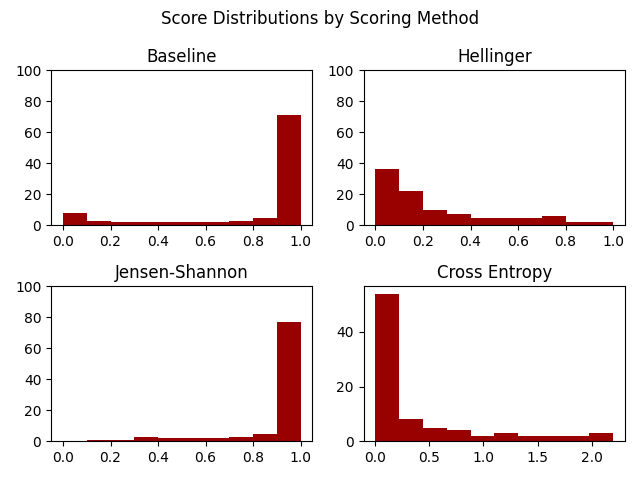
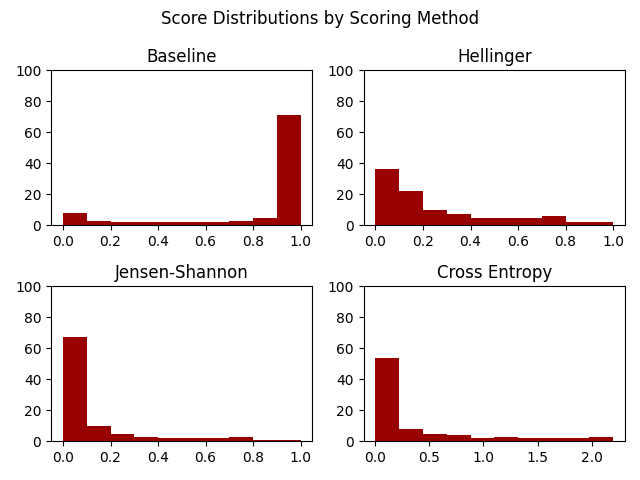
fixed graphs

diff --git a/error_analysis_hellinger.py b/error_analysis_hellinger.py
@@ -4,13 +4,13 @@ import matplotlib.pyplot as plt
 
 sensitivity = 0.05
 
+with open('sk_hell_predictions.binary', 'rb') as in_file:
+    predictions = pickle.load(in_file)[18]
+
 with open('sk_predictions.binary', 'rb') as in_file:
-    predictions = pickle.load(in_file)
+    base_predictions = pickle.load(in_file)[0]
 
-# Sanity check that the predictions are all the same order
-assert predictions[0][2] == predictions[1][2] == predictions[2][2] == predictions[3][2]
-
-cos_all = []
+hel_all = []
 jsd_all = []
 xen_all = []
 cos_right_1 = []
@@ -23,183 +23,36 @@ cos_both_wrong_1 = []
 cos_both_wrong_0 = []
 for x in range(5000):
     # test and cos are different
-    if predictions[0][1][x] != predictions[1][1][x]:
-        if predictions[1][1][x] == predictions[1][2][x]: # cos got it right
-            if predictions[1][2][x] == 1: # correct answer is 1
-                cos_right_1.append(x)
-            else: # correct answer is 0
-                cos_right_0.append(x)
-        else: # cos got it wrong
-            if predictions[1][2][x] == 1: # correct answer is 1
-                cos_wrong_1.append(x)
-            else: # correct answer is 0
-                cos_wrong_0.append(x)
-    else: # test and cos are the same
-        if predictions[1][1][x] == predictions[1][2][x]: # both got it right
-            if predictions[1][2][x] == 1: # correct answer is 1
-                cos_both_right_1.append(x)
-            else: # correct answer is 0
-                cos_both_right_0.append(x)
-        else: # both got it wrong
-            if predictions[1][2][x] == 1:
-                cos_both_wrong_1.append(x)
-            else:
-                cos_both_wrong_0.append(x)
-    cos_all.extend([pair for pair in zip(predictions[0][0][x], predictions[1][0][x])])
+    # if predictions[0][1][x] != predictions[1][1][x]:
+    #     if predictions[1][1][x] == predictions[1][2][x]: # cos got it right
+    #         if predictions[1][2][x] == 1: # correct answer is 1
+    #             cos_right_1.append(x)
+    #         else: # correct answer is 0
+    #             cos_right_0.append(x)
+    #     else: # cos got it wrong
+    #         if predictions[1][2][x] == 1: # correct answer is 1
+    #             cos_wrong_1.append(x)
+    #         else: # correct answer is 0
+    #             cos_wrong_0.append(x)
+    # else: # test and cos are the same
+    #     if predictions[1][1][x] == predictions[1][2][x]: # both got it right
+    #         if predictions[1][2][x] == 1: # correct answer is 1
+    #             cos_both_right_1.append(x)
+    #         else: # correct answer is 0
+    #             cos_both_right_0.append(x)
+    #     else: # both got it wrong
+    #         if predictions[1][2][x] == 1:
+    #             cos_both_wrong_1.append(x)
+    #         else:
+    #             cos_both_wrong_0.append(x)
+    hel_all.extend([pair for pair in zip(base_predictions[0][x], predictions[0][x])])
 
-# with open('error_analysis.txt', 'w') as out_file:
-#     print('Cosine right, test wrong', file = out_file)
-#     for x in cos_right:
-#         t = '\t'.join([str(n).rjust(5) for n in predictions[1][0][x] if isinstance(n, float)])
-#         c = '\t'.join([str(n).rjust(5) for n in predictions[0][0][x] if isinstance(n, float)])
-#         print(f'Test:   {t}', file = out_file)
-#         print(f'Cosine: {c}', file = out_file)
-#     print('Cosine wrong, test right', file = out_file)
-#     for x in cos_wrong:
-#         t = '\t'.join([str(n).rjust(5) for n in predictions[0][0][x] if isinstance(n, float)])
-#         c = '\t'.join([str(n).rjust(5) for n in predictions[1][0][x] if isinstance(n, float)])
-#         print(f'Test:   {t}', file = out_file)
-#         print(f'Cosine: {c}', file = out_file)
-#     print('JSD right, test wrong', file = out_file)
-#     for x in jsd_right:
-#         t = '\t'.join([str(n).rjust(5) for n in predictions[0][0][x] if isinstance(n, float)])
-#         j = '\t'.join([str(n).rjust(5) for n in predictions[2][0][x] if isinstance(n, float)])
-#         print(f'Test: {t}', file = out_file)
-#         print(f'JSD:  {j}', file = out_file)
-#     print('JSD wrong, test right', file = out_file)
-#     for x in jsd_wrong:
-#         t = '\t'.join([str(n).rjust(5) for n in predictions[0][0][x] if isinstance(n, float)])
-#         j = '\t'.join([str(n).rjust(5) for n in predictions[2][0][x] if isinstance(n, float)])
-#         print(f'Test: {t}', file = out_file)
-#         print(f'JSD:  {j}', file = out_file)
-
-################################## COS ##################################
-deltas_cr = []
-deltas_cr_0 = []
-deltas_cr_1 = []
-deltas_cw = []
-deltas_cw_0 = []
-deltas_cw_1 = []
-deltas_cbr = []
-deltas_bw_0 = []
-deltas_bw_1 = []
-deltas_br_0 = []
-deltas_br_1 = []
-# for x in cos_right:
-#     # negative numbers, cos is higher score than baseline
-#     deltas_cr.extend([pair[0] - pair[1] for pair in zip(predictions[0][0][x], predictions[1][0][x]) if abs(pair[0] - pair[1]) > sensitivity])
-# for x in cos_wrong:
-#     # negative numbers, cos is higher score than baseline
-#     deltas_cw.extend([pair[0] - pair[1] for pair in zip(predictions[0][0][x], predictions[1][0][x]) if abs(pair[0] - pair[1]) > sensitivity])
-# for x in cos_both_right:
-#     # negative numbers, cos is higher score than baseline
-#     deltas_cbr.extend([pair[0] - pair[1] for pair in zip(predictions[0][0][x], predictions[1][0][x]) if abs(pair[0] - pair[1]) > sensitivity])
-for x in cos_wrong_0:
-    # negative numbers, cos is higher score than baseline
-    deltas_cw_0.extend([pair for pair in zip(predictions[0][0][x], predictions[1][0][x])])# if abs(pair[0] - pair[1]) > sensitivity])
-for x in cos_wrong_1:
-    # negative numbers, cos is higher score than baseline
-    deltas_cw_1.extend([pair for pair in zip(predictions[0][0][x], predictions[1][0][x])])# if abs(pair[0] - pair[1]) > sensitivity])
-for x in cos_right_0:
-    # negative numbers, cos is higher score than baseline
-    deltas_cr_0.extend([pair for pair in zip(predictions[0][0][x], predictions[1][0][x])])# if abs(pair[0] - pair[1]) > sensitivity])
-for x in cos_right_1:
-    # negative numbers, cos is higher score than baseline
-    deltas_cr_1.extend([pair for pair in zip(predictions[0][0][x], predictions[1][0][x])])# if abs(pair[0] - pair[1]) > sensitivity])
-
-for x in cos_both_wrong_0:
-    # negative numbers, cos is higher score than baseline
-    deltas_bw_0.extend([pair for pair in zip(predictions[0][0][x], predictions[1][0][x])])# if abs(pair[0] - pair[1]) > sensitivity])
-for x in cos_both_wrong_1:
-    # negative numbers, cos is higher score than baseline
-    deltas_bw_1.extend([pair for pair in zip(predictions[0][0][x], predictions[1][0][x])])# if abs(pair[0] - pair[1]) > sensitivity])
-for x in cos_both_right_0:
-    # negative numbers, cos is higher score than baseline
-    deltas_br_0.extend([pair for pair in zip(predictions[0][0][x], predictions[1][0][x])])# if abs(pair[0] - pair[1]) > sensitivity])
-for x in cos_both_right_1:
-    # negative numbers, cos is higher score than baseline
-    deltas_br_1.extend([pair for pair in zip(predictions[0][0][x], predictions[1][0][x])])# if abs(pair[0] - pair[1]) > sensitivity])
-
-# cr_counter = Counter(deltas_cr)
-# print(' '.join([f'{k}: {v}' for k, v in sorted(cr_counter.items())]))
-# cw_counter = Counter(deltas_cw)
-# print(' '.join([f'{k}: {v}' for k, v in sorted(cw_counter.items())]))
-# cbr_counter = Counter(deltas_cbr)
-# print(' '.join([f'{k}: {v}' for k, v in sorted(cw_counter.items())]))
-
-# make the graphs
-# fig, ax1 = plt.subplots()
-fig, ((ax1a, ax1b), (ax1c, ax1d)) = plt.subplots(nrows=2, ncols=2)
-# labels = ['Base Right\nAnswer 0', 'Base Right\nAnswer 1', 'Cos Right\nAnswer 0', 'Cos Right\nAnswer 1']
-# violin1 = ax1.violinplot([deltas_cw_0, deltas_cw_1, deltas_cr_0, deltas_cr_1], widths=0.9, showmeans=True, showextrema=False)
-# for b in violin1['bodies']:
-#     b.set_color('#990000')
-# violin1['cmeans'].set_color('#990000')
-# ax1.set_xticks(list(range(1, len(labels)+1)))
-# ax1.set_xticklabels(labels)
-# x is baseline y is cos
-fig.suptitle('Baseline vs Cosine with Different Answers')
-ax1a.scatter([x[0] for x in deltas_cw_0], [x[1] for x in deltas_cw_0], s = 1, c = '#990000')
-ax1a.axline((0, 0), slope = 1, c = 'black')
-ax1a.set_xlabel('Baseline Score')
-ax1a.set_ylabel('Cosine Score')
-ax1a.set_title('Cosine Wrong Answer 0')
-ax1b.scatter([x[0] for x in deltas_cw_1], [x[1] for x in deltas_cw_1], s = 1, c = '#990000')
-ax1b.axline((0, 0), slope = 1, c = 'black')
-ax1b.set_xlabel('Baseline Score')
-ax1b.set_ylabel('Cosine Score')
-ax1b.set_title('Cosine Wrong Answer 1')
-ax1c.scatter([x[0] for x in deltas_cr_0], [x[1] for x in deltas_cr_0], s = 1, c = '#990000')
-ax1c.axline((0, 0), slope = 1, c = 'black')
-ax1c.set_xlabel('Baseline Score')
-ax1c.set_ylabel('Cosine Score')
-ax1c.set_title('Cosine Right Answer 0')
-ax1d.scatter([x[0] for x in deltas_cr_1], [x[1] for x in deltas_cr_1], s = 1, c = '#990000')
-ax1d.axline((0, 0), slope = 1, c = 'black')
-ax1d.set_xlabel('Baseline Score')
-ax1d.set_ylabel('Cosine Score')
-ax1d.set_title('Cosine Right Answer 1')
-# plt.show()
-# exit()
-
-# fig2, ax2 = plt.subplots()
-fig2, ((ax2a, ax2b), (ax2c, ax2d)) = plt.subplots(nrows=2, ncols=2)
-# labels = ['Both Wrong\nAnswer 0', 'Both Wrong\nAnswer 1', 'Both Right\nAnswer 0', 'Both Right\nAnswer 1']
-# violin2 = ax2.violinplot([deltas_bw_0, deltas_bw_1, deltas_br_0, deltas_br_1], widths=0.9, showmeans=True, showextrema=False)
-# for b in violin2['bodies']:
-#     b.set_color('#990000')
-# violin2['cmeans'].set_color('#990000')
-# ax2.set_xticks(list(range(1, len(labels)+1)))
-# ax2.set_xticklabels(labels)
-# ax2.set_ylabel('Baseline Score - Cos Score')
-# ax2.set_title('Difference Between Cosine and Baseline\nwith Same Answers')
-# x is baseline y is cos
-fig2.suptitle('Baseline vs Cosine with Same Answers')
-ax2a.scatter([x[0] for x in deltas_bw_0], [x[1] for x in deltas_bw_0], s = 1, c = '#990000')
-ax2a.axline((0, 0), slope = 1, c = 'black')
-ax2a.set_xlabel('Baseline Score')
-ax2a.set_ylabel('Cosine Score')
-ax2a.set_title('Both Wrong Answer 0')
-ax2b.scatter([x[0] for x in deltas_bw_1], [x[1] for x in deltas_bw_1], s = 1, c = '#990000')
-ax2b.axline((0, 0), slope = 1, c = 'black')
-ax2b.set_xlabel('Baseline Score')
-ax2b.set_ylabel('Cosine Score')
-ax2b.set_title('Both Wrong Answer 1')
-ax2c.scatter([x[0] for x in deltas_br_0], [x[1] for x in deltas_br_0], s = 1, c = '#990000')
-ax2c.axline((0, 0), slope = 1, c = 'black')
-ax2c.set_xlabel('Baseline Score')
-ax2c.set_ylabel('Cosine Score')
-ax2c.set_title('Both Right Answer 0')
-ax2d.scatter([x[0] for x in deltas_br_1], [x[1] for x in deltas_br_1], s = 1, c = '#990000')
-ax2d.axline((0, 0), slope = 1, c = 'black')
-ax2d.set_xlabel('Baseline Score')
-ax2d.set_ylabel('Cosine Score')
-ax2d.set_title('Both Right Answer 1')
 
 fig7, ax7 = plt.subplots()
-fig7.suptitle('Baseline vs Cosine')
-ax7.scatter([x[0] for x in cos_all], [x[1] for x in cos_all], s = 1, c = '#990000')
-ax7.axline((0, 0), slope = 1, c = 'black')
+fig7.suptitle('Baseline vs Hellinger')
+ax7.scatter([x[0] for x in hel_all], [x[1] for x in hel_all], s = 1, c = '#990000')
+ax7.axline((0, 1), slope = -1, c = 'black')
 ax7.set_xlabel('Baseline Score')
-ax7.set_ylabel('Cosine Score')
+ax7.set_ylabel('Hellinger Score')
 
+plt.show()

diff --git a/generate_graphs.py b/generate_graphs.py
@@ -36,7 +36,7 @@ hell_scores = Counter({0.01: 10992, 0.011: 10841, 0.009: 10828, 0.012: 10779, 0.
 gold_scores_percent = counts_to_percents(gold_scores)
 test_scores_percent = counts_to_percents(test_scores)
 # cos_scores_percent = counts_to_percents(cos_scores)
-jsd_scores_percent = counts_to_percents(jsd_scores)
+jsd_scores_percent = counts_to_percents({(x - 1) * -1: y for x, y in jsd_scores.items()})
 xen_scores = counts_to_percents({(x - 1) * -1: y for x, y in xen_scores.items()})
 print(f'Max xen score: {max(xen_scores.keys())}')
 hell_scores_percent = counts_to_percents(hell_scores)
@@ -197,7 +197,7 @@ ax2.hist(list(jsd_scores_percent.elements()), bins, color = '#990000')
 # plt.show()
 
 ax3.set_title("Cross Entropy")
-# ax3.set_ylim(0, 100)
+ax3.set_ylim(0, 100)
 # ax0.xlabel('Pronunciation Score')
 # ax0.ylabel('Count (log scale)')
 # ax0.ylim(100, 1000000)

diff --git a/error_analysis.py b/error_analysis.py
@@ -401,8 +401,8 @@ ax4d.set_title('Both Right Answer 1')
 
 fig8, ax8 = plt.subplots()
 fig8.suptitle('Baseline vs Jensen-Shannon')
-ax8.scatter([x[0] for x in jsd_all], [x[1] for x in jsd_all], s = 1, c = '#990000')
-ax8.axline((0, 0), slope = 1, c = 'black')
+ax8.scatter([x[0] for x in jsd_all], [1-x[1] for x in jsd_all], s = 1, c = '#990000')
+ax8.axline((0, 1), slope = -1, c = 'black')
 ax8.set_xlabel('Baseline Score')
 ax8.set_ylabel('Jensen-Shannon Score')
 
